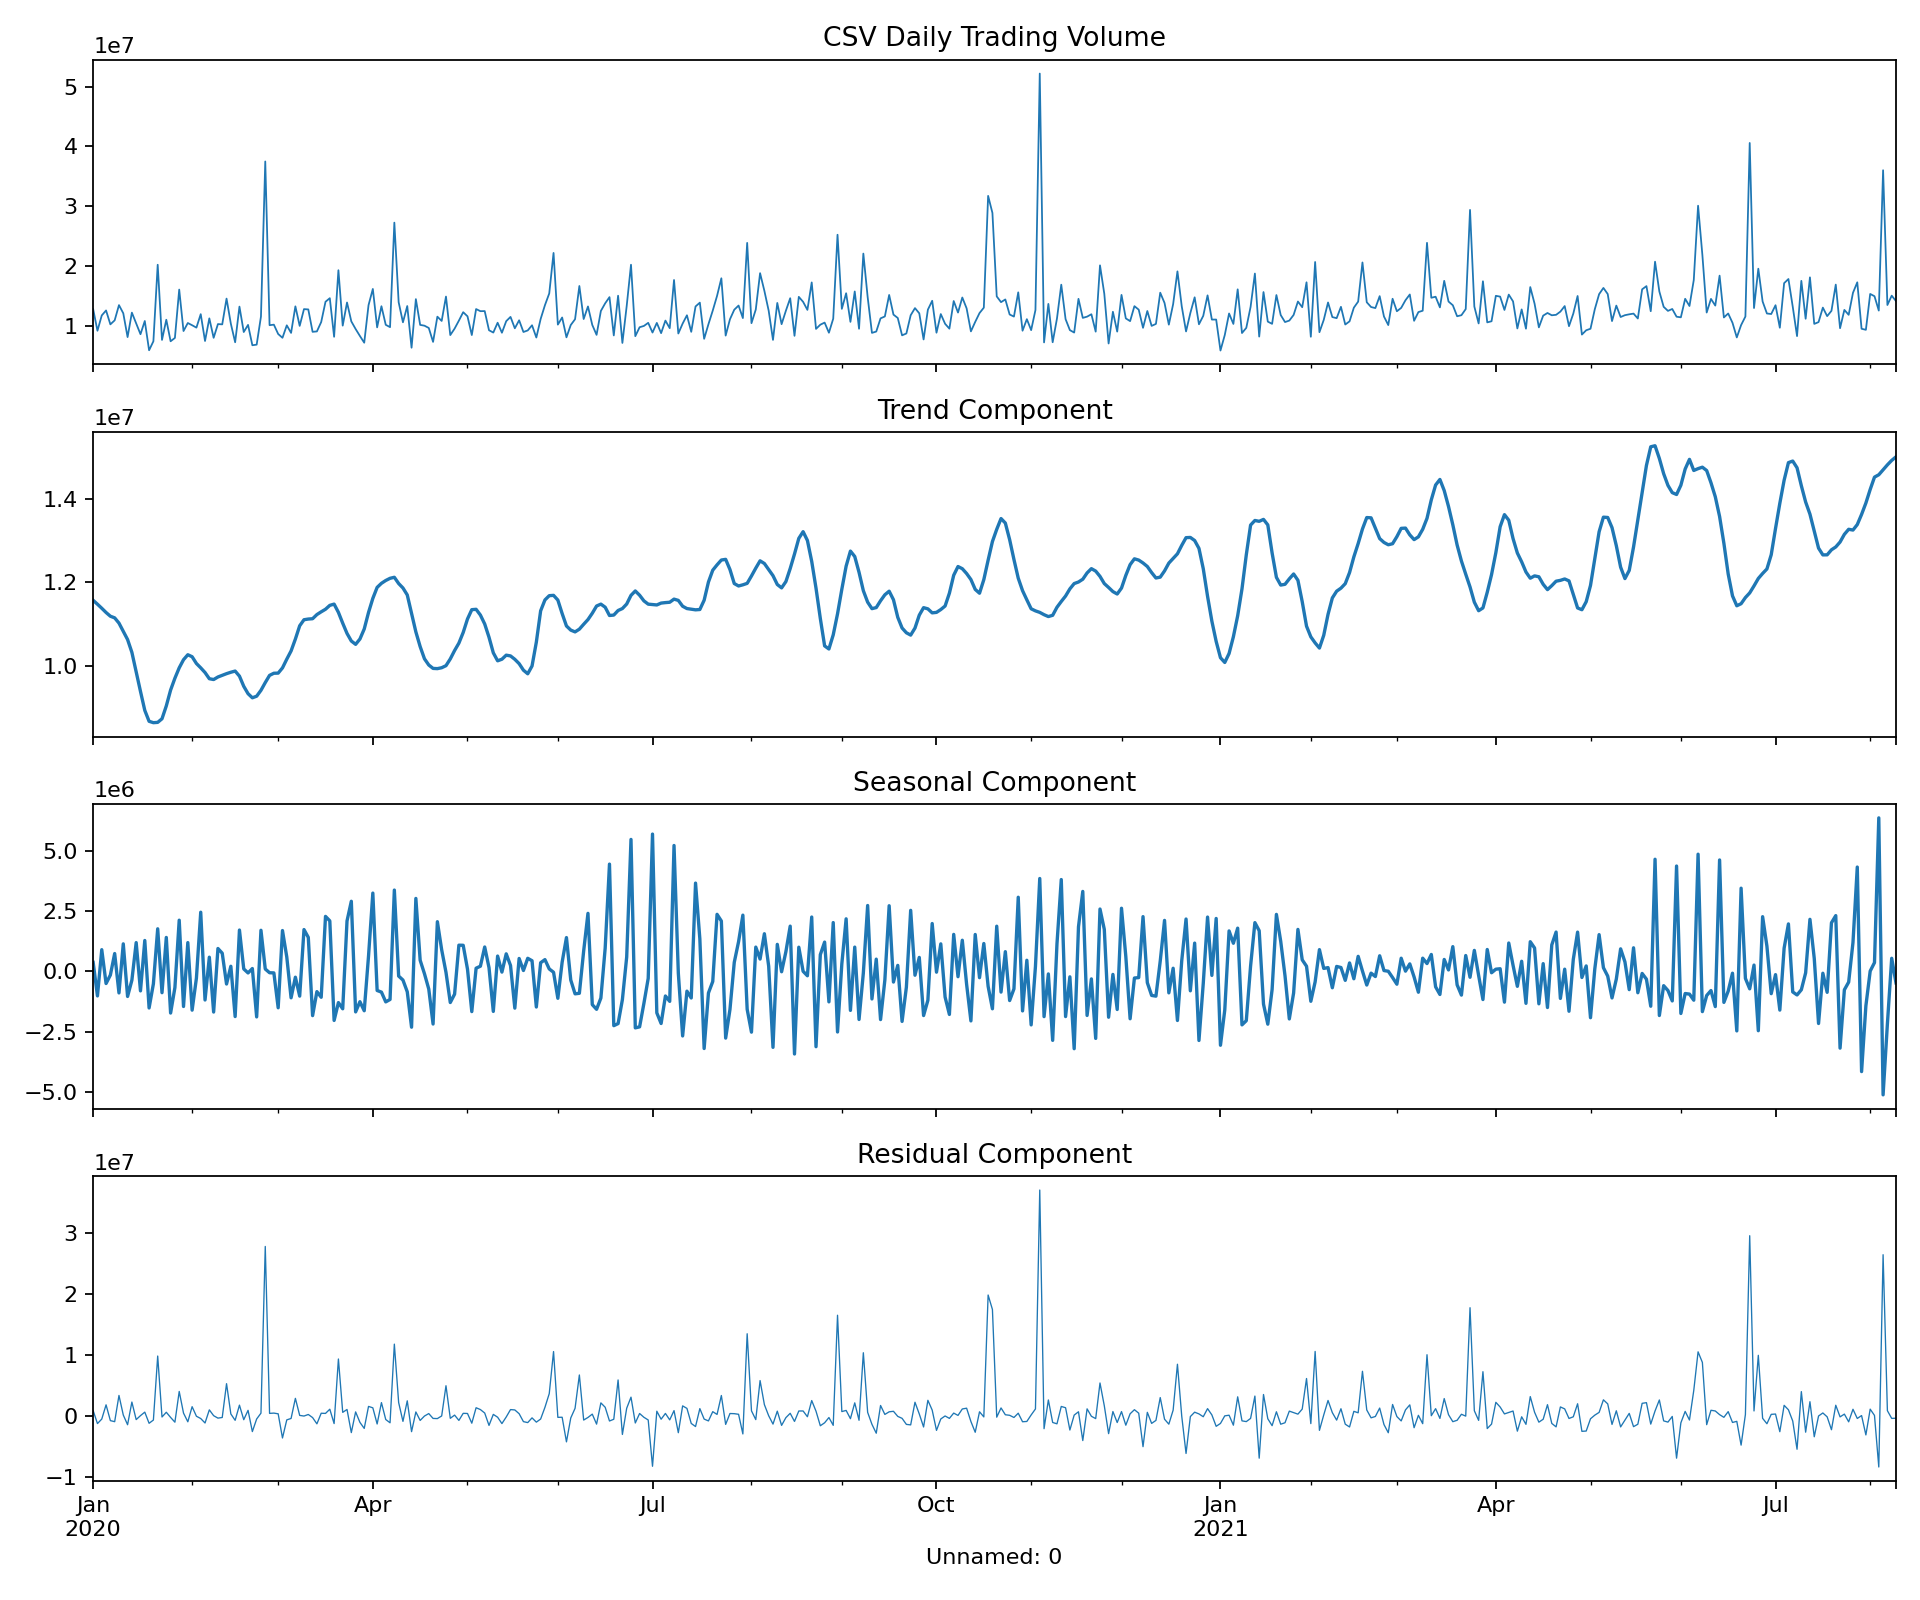
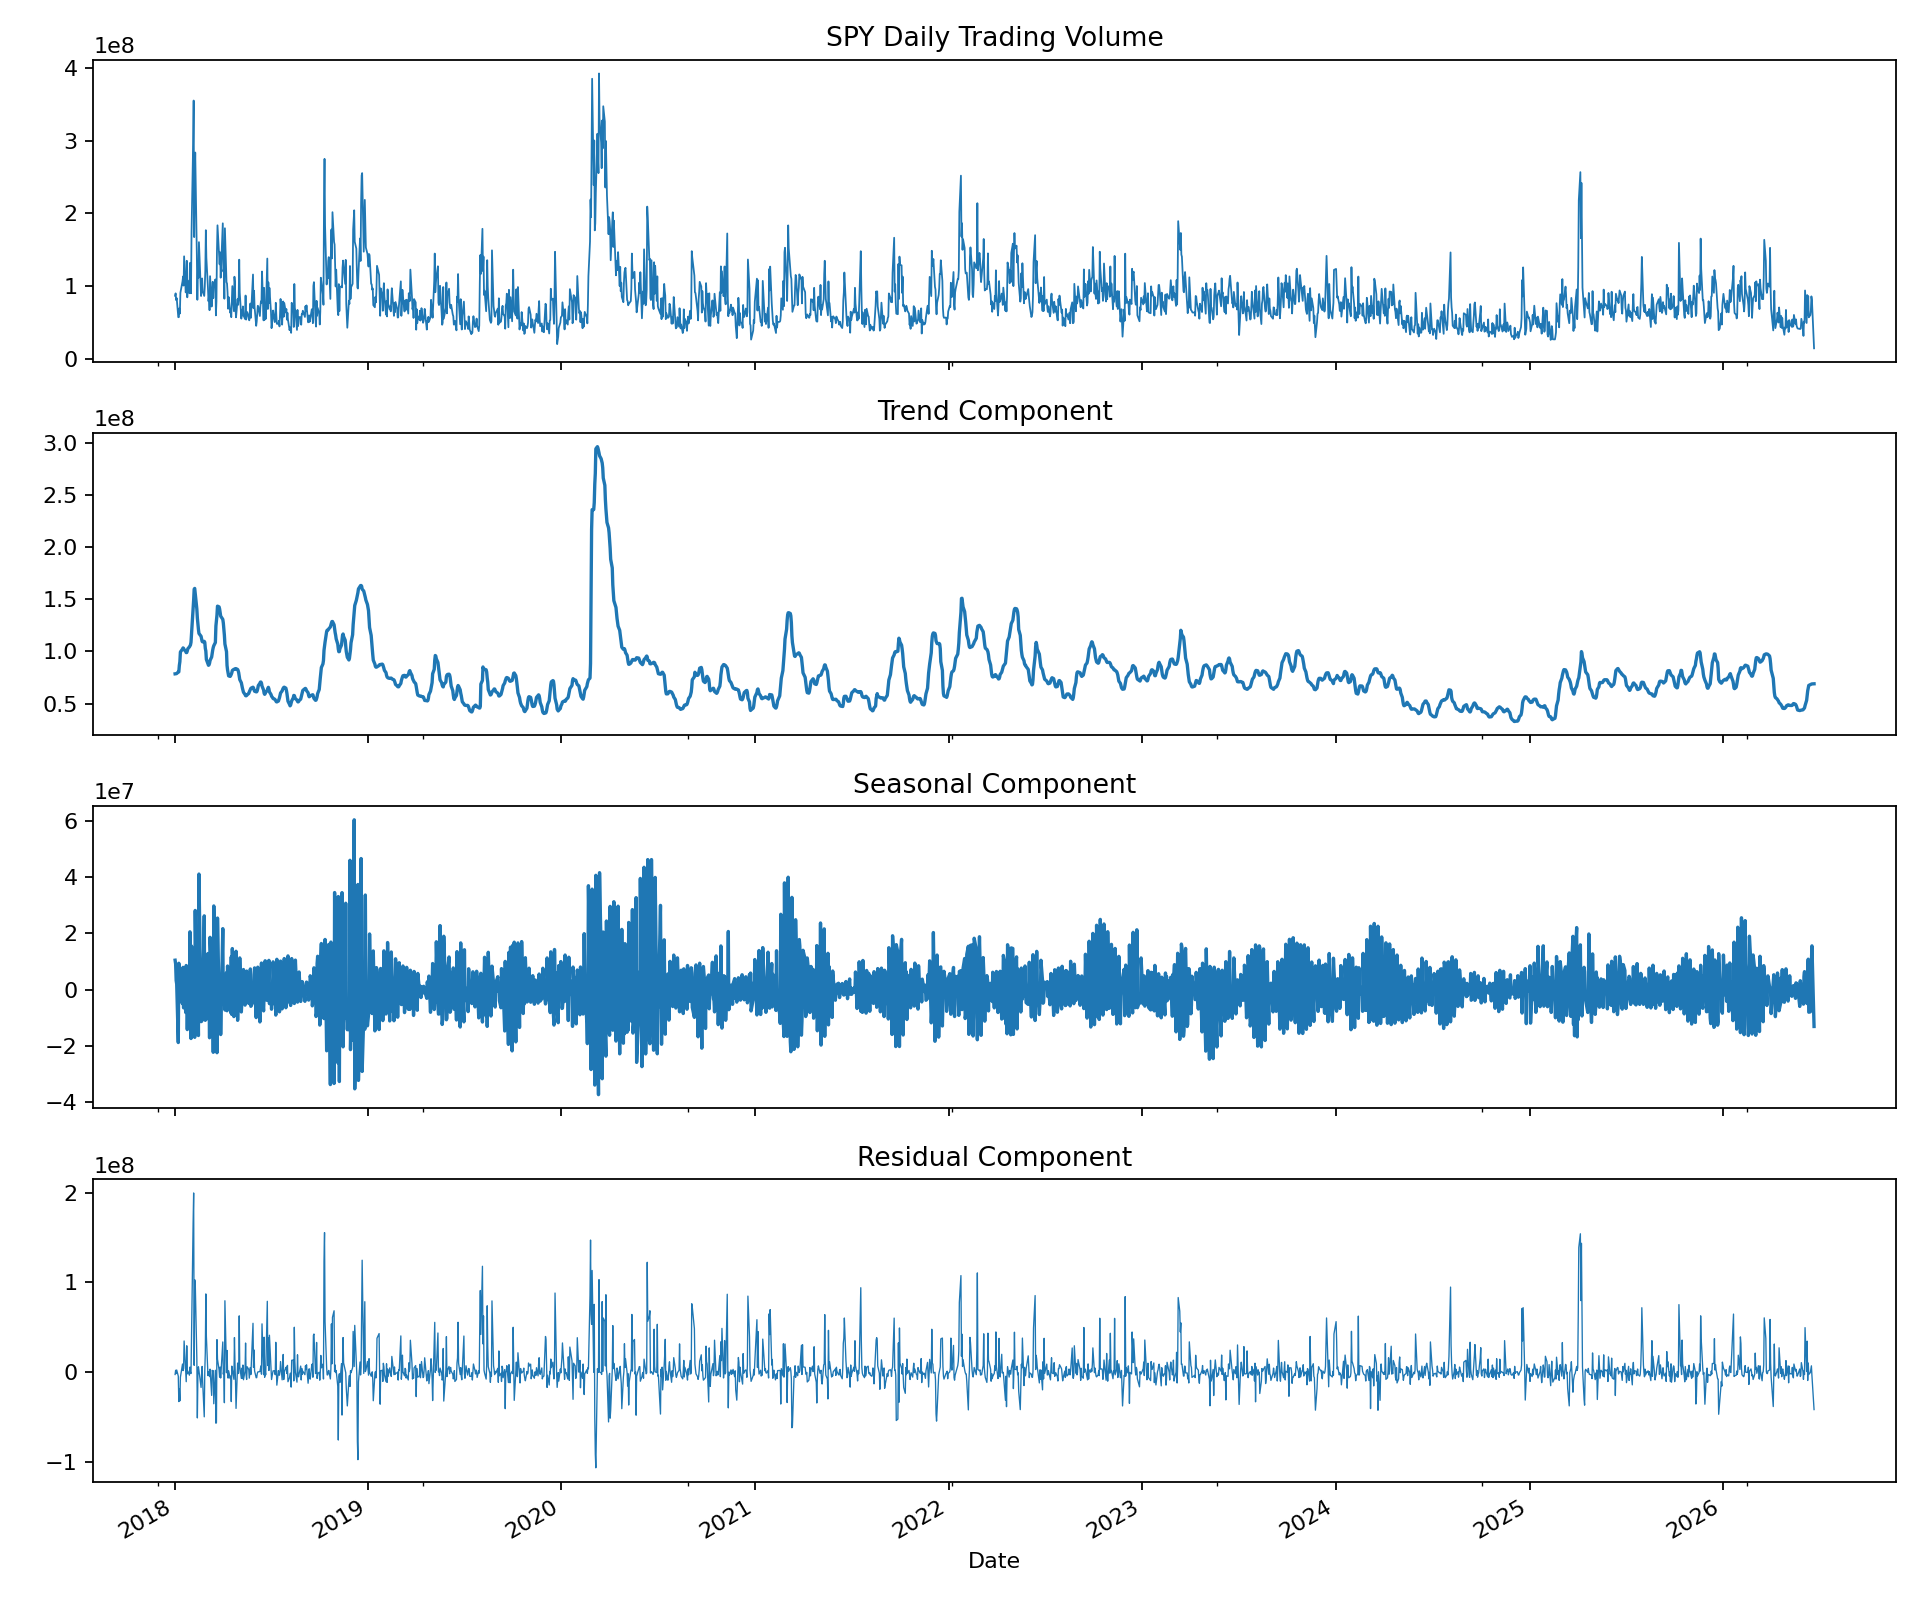
Update SPY forecasting results and README outcomes

diff --git a/README.md b/README.md
@@ -48,9 +48,37 @@ The key improvement is that the final prediction is no longer a blind sum of tre
 Running the pipeline writes the rolling backtest table, headline metrics, and graphs into `results/`. The README is updated automatically after each run.
 
 <!-- RESULTS_START -->
+### Latest generated results
 
-Run the pipeline once to populate this section with the latest metrics and graphs.
+| Model | MAPE ↓ | RMSE ↓ | MAE ↓ | Runtime sec ↓ |
+|---|---:|---:|---:|---:|
+| Multi Agent | 25.212 | 22,022,293.370 | 18,754,464.983 | 0.871 |
+| Naive | 27.928 | 23,823,458.591 | 20,551,693.922 | - |
+| Moving Avg | 26.236 | 22,486,255.297 | 19,445,310.883 | - |
+| Seasonal Naive | 30.290 | 26,948,711.861 | 22,469,611.519 | - |
+| Prophet | 30.854 | 25,161,765.913 | 22,141,025.557 | 0.638 |
 
+### Agent contribution ablation
+
+Positive RMSE contribution means removing that component worsened the forecast.
+
+| Component | Avg RMSE degradation ↑ |
+|---|---:|
+| Trend Agent | -2,049.751 |
+| Seasonal Agent | 0.000 |
+| Residual Agent | 1,313,751.968 |
+
+**Dynamic model selection frequency**
+
+- `dynamic_ensemble`: 100.0% of folds
+
+### Generated plots
+
+![STL decomposition](results/decomposition.png)
+
+![Backtest MAPE by fold](results/backtest_mape.png)
+
+![Latest holdout forecast](results/forecast_comparison.png)
 <!-- RESULTS_END -->
 
 ## Setup